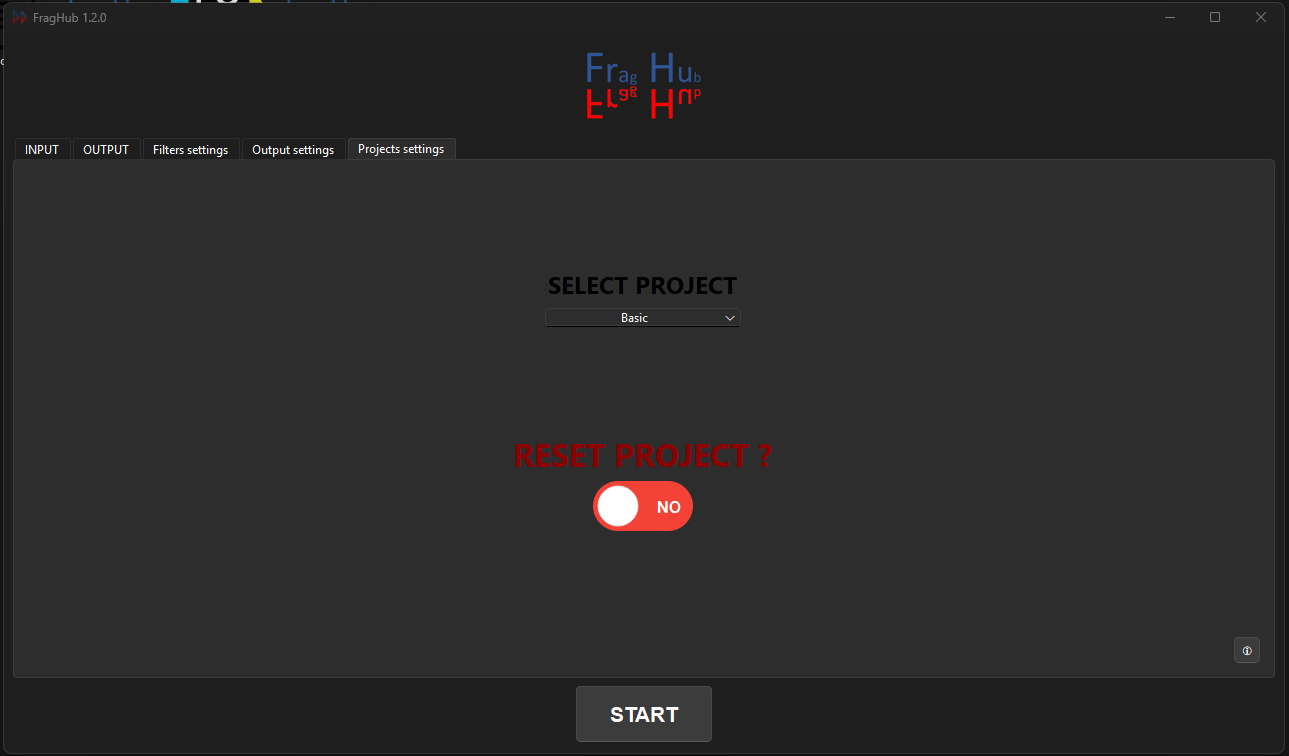
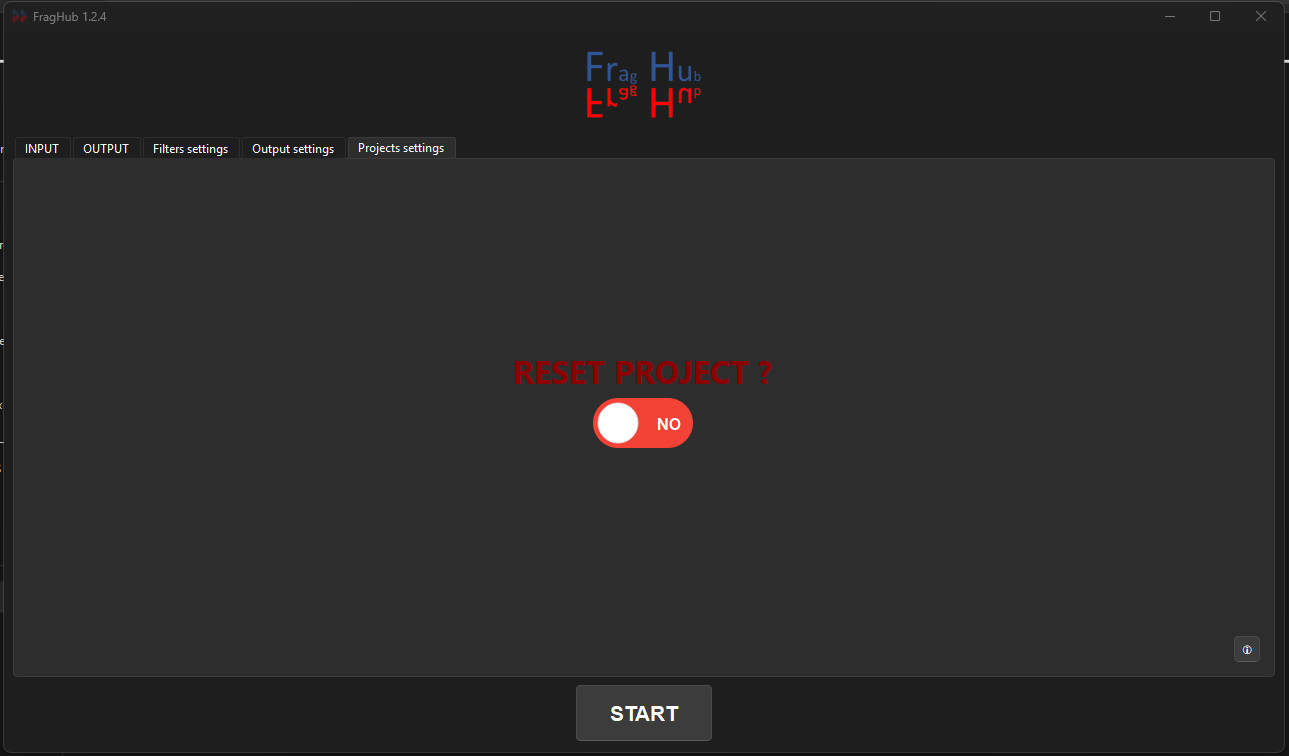
"Update README to clarify directory selection and project resets
Improved clarity in instructions for selecting directories and managing project resets in the FragHub GUI. Adjusted wording to enhance user understanding of directory options and splash key handling."

diff --git a/README.md b/README.md
@@ -39,10 +39,10 @@ To use this programme:
 
 2) FragHub GUI start: **at any time you can move the mouse over 🛈 to view a detailed description**<br>
    1) First tab: Select single or multiple .json, .csv, .msp, or .mgf files.<br>![img.png](img.png)
-   2) Second tab: Select an empty directory where project will be created<br>![img_1.png](img_1.png)
+   2) Second tab: Create a nex empty directory or Select an existing directory where FragHub has already written files<br>![img_1.png](img_1.png)
    3) Third tab: This area allows users to select specific filters for inclusion during the processing stage. Moreover, it provides the option to adjust the respective parameters of each filters.<br>![img_2.png](img_2.png)
    4) Fourth tab: Select the output file format of your preference. By default, all formats are selected.<br>![img_3.png](img_3.png)
-   5) Fifth tab: FragHub projects allow you to save the splash keys of previous spectra processed.<br>So that at the next update, only new spectra from the database are processed, and added to previous FragHub processes.<br>Enter the name of your project to create a new one, or select an existing one.<br><br>Reseting project allows you to delete splash keys and output files from the selected project, in order to start a new project from scratch.<br>![img_4.png](img_4.png)
+   5) Fifth tab: FragHub save the splash keys of previous spectra processed.<br>So that at the next update, only new spectra from the database are processed, and added to previous FragHub processes.<br>Reseting project allows you to delete splash keys and output files from the selected project, in order to start a new project from scratch.<br>![img_4.png](img_4.png)
    6) Click on START button to run the programme.
 3) Progress start. At any time you can click on STOP button to close the programme.<br>![img_5.png](img_5.png)
 4) When Progress is finish, click on FINISH button to close the programme.<br>![img_6.png](img_6.png)
